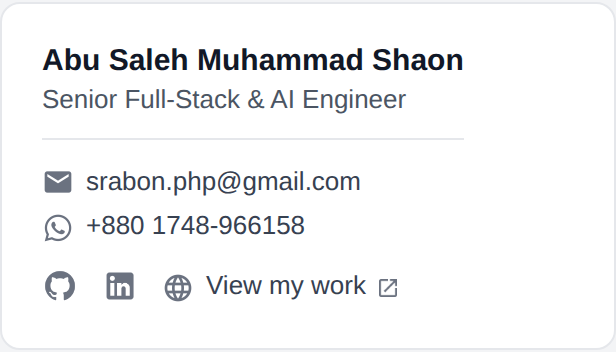
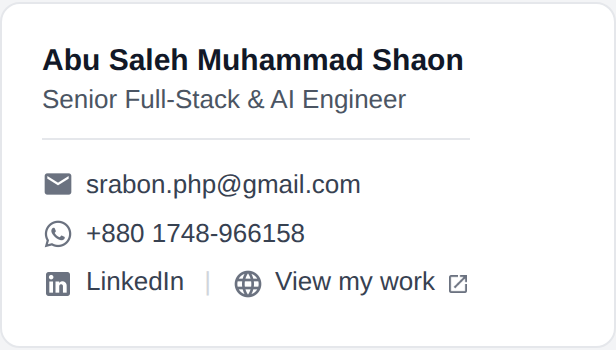
signature updated

diff --git a/public/signature/signature.html b/public/signature/signature.html
@@ -14,7 +14,7 @@
 
 <div class="card">
  <h2 style="margin:0 0 4px;font-size:18px">Email signature</h2>
- <p class="hint" style="margin:0">Gmail only shows images hosted at a public URL. Upload the 6 PNGs, enter that folder's URL below, then copy the signature and paste it into Gmail → Settings → General → Signature.</p>
+ <p class="hint" style="margin:0">Gmail only shows images hosted at a public URL. Upload the PNGs (email, whatsapp, linkedin, web, external), enter that folder's URL below, then copy the signature and paste it into Gmail → Settings → General → Signature.</p>
  <label>Public folder URL of the PNG icons (ending with /)</label>
  <input id="base" value="https://asmshaon.tech/signature/">
  <label>WhatsApp number (e.g. +880 1712-345678)</label>
@@ -33,14 +33,15 @@ const SEP='<span style="color:#d1d5db;padding:0 10px">|</span>';
 function build(src,raw){
  const wa=raw.replace(/\D/g,'');
  const pretty=/^880\d{10}$/.test(wa)?wa.replace(/^880(\d{4})(\d+)$/,'+880 $1-$2'):raw;
- const NW='white-space:nowrap';
- const SOC=(href,name,alt)=>`<a href="${href}" style="text-decoration:none;display:inline-block;margin-right:12px;vertical-align:middle"><img src="${src}${name}.png" width="18" height="18" alt="${alt}" title="${alt}" style="display:block;width:18px;height:18px;border:0"></a>`;
+ const ROW='padding:0;height:24px;line-height:24px;font-size:13px;color:#374151;white-space:nowrap;vertical-align:middle';
+ const T='color:#374151;text-decoration:none;font-size:13px;vertical-align:middle';
  return `<table cellpadding="0" cellspacing="0" border="0" style="font-family:Arial,Helvetica,sans-serif;color:#111827;border-collapse:collapse">
 <tr><td style="padding:0 0 2px;font-size:15px;font-weight:bold;color:#111827">Abu Saleh Muhammad Shaon</td></tr>
-<tr><td style="padding:0 0 10px;font-size:13px;color:#4B5563;line-height:18px"><span style="${NW}">Senior Full-Stack &amp; AI Engineer</span></td></tr>
-<tr><td style="border-top:1px solid #E5E7EB;padding:10px 0 0;line-height:22px;${NW}"><a href="mailto:srabon.php@gmail.com" style="${A}">${ICON('email',src)}srabon.php@gmail.com</a></td></tr>
-<tr><td style="padding:0;line-height:22px;${NW}"><a href="https://wa.me/${wa}" style="${A}">${ICON('whatsapp',src)}${pretty}</a></td></tr>
-<tr><td style="padding:8px 0 0;line-height:22px;${NW}">${SOC('https://github.com/asmshaon','github','GitHub')}${SOC('https://www.linkedin.com/in/asmshaon','linkedin','LinkedIn')}<a href="https://asmshaon.tech" target="_blank" style="${A}">${ICON('web',src)}View my work<img src="${src}external.png" width="12" height="12" alt=" ↗" style="display:inline-block;width:12px;height:12px;border:0;vertical-align:middle;margin-left:5px"></a></td></tr>
+<tr><td style="padding:0 0 10px;font-size:13px;color:#4B5563;line-height:18px;white-space:nowrap">Senior Full-Stack &amp; AI Engineer</td></tr>
+<tr><td style="border-top:1px solid #E5E7EB;padding:0;height:10px;line-height:10px;font-size:1px">&nbsp;</td></tr>
+<tr><td style="${ROW}">${ICON('email',src)}<span style="${T}">srabon.php@gmail.com</span></td></tr>
+<tr><td style="${ROW}"><a href="https://wa.me/${wa}" target="_blank" style="${T}">${ICON('whatsapp',src)}${pretty}</a></td></tr>
+<tr><td style="${ROW}"><a href="https://www.linkedin.com/in/asmshaon" target="_blank" style="${T}">${ICON('linkedin',src)}LinkedIn</a><span style="color:#D1D5DB;padding:0 10px;vertical-align:middle">|</span><a href="https://asmshaon.tech" target="_blank" style="${T}">${ICON('web',src)}View my work<img src="${src}external.png" width="12" height="12" alt=" ↗" style="display:inline-block;width:12px;height:12px;border:0;vertical-align:middle;margin-left:5px"></a></td></tr>
 </table>`;}
 const $=id=>document.getElementById(id);
 const render=()=>{$('sig').innerHTML=build('',$('wa').value)};
